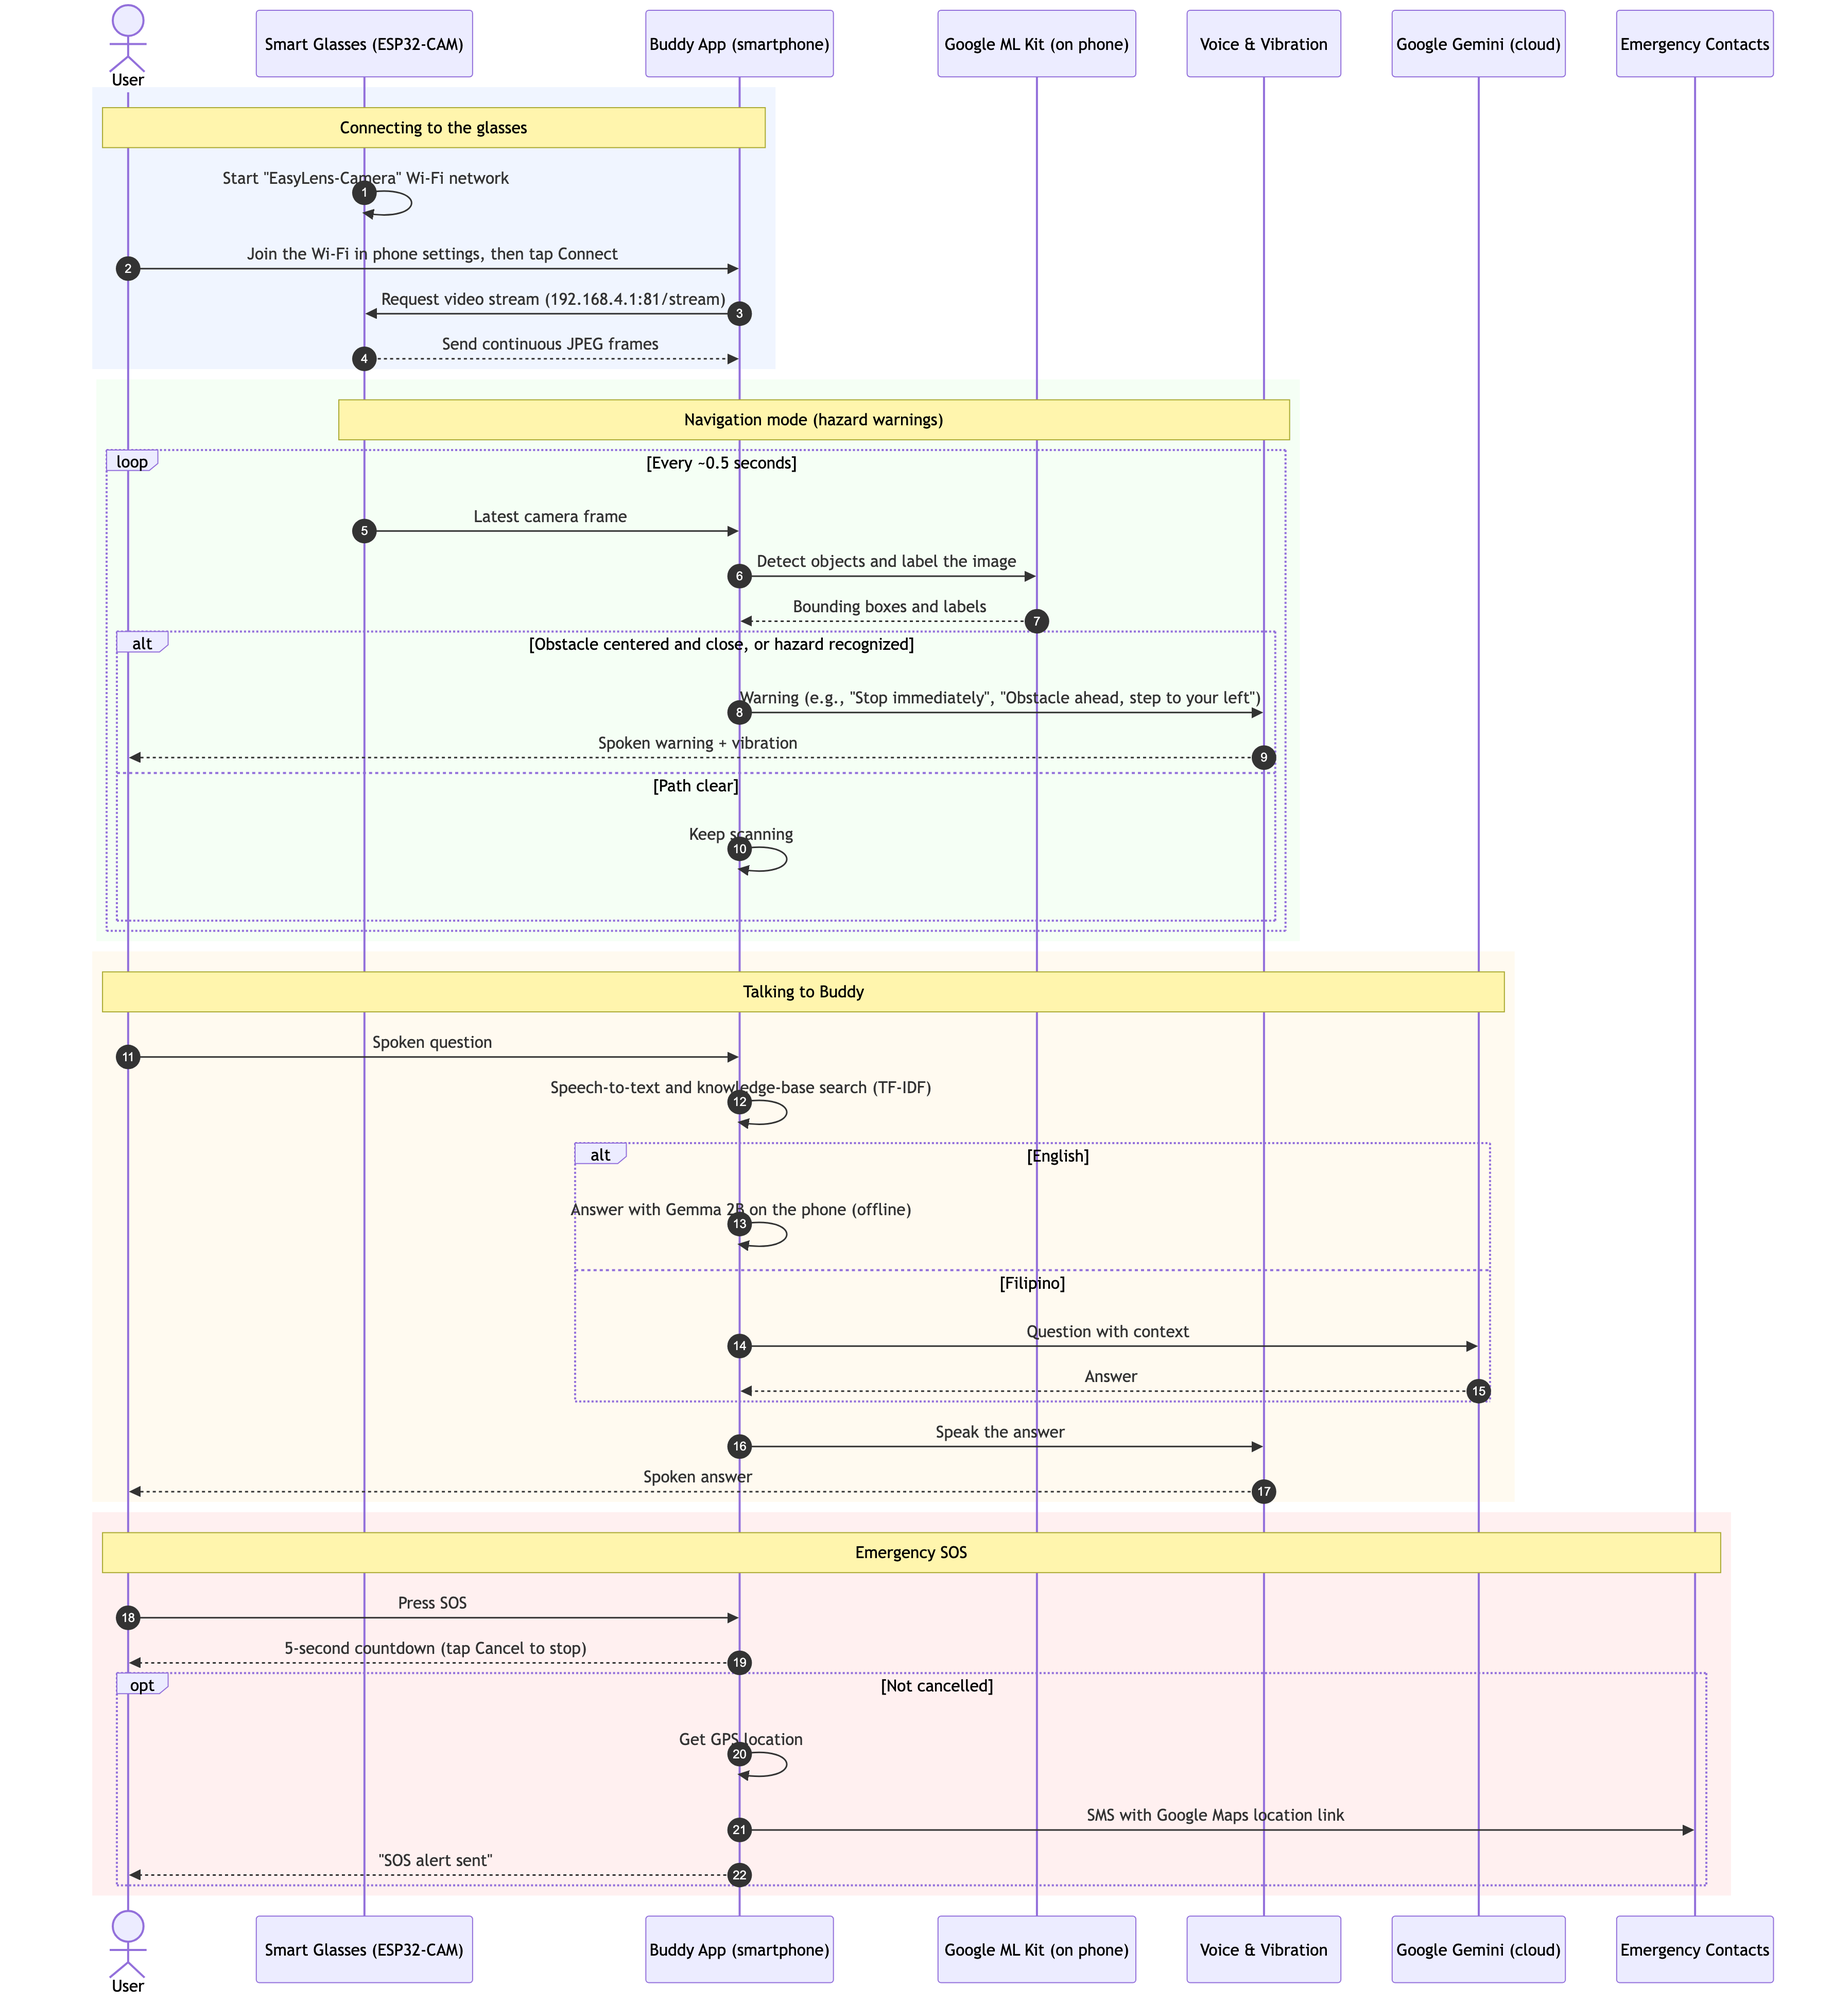
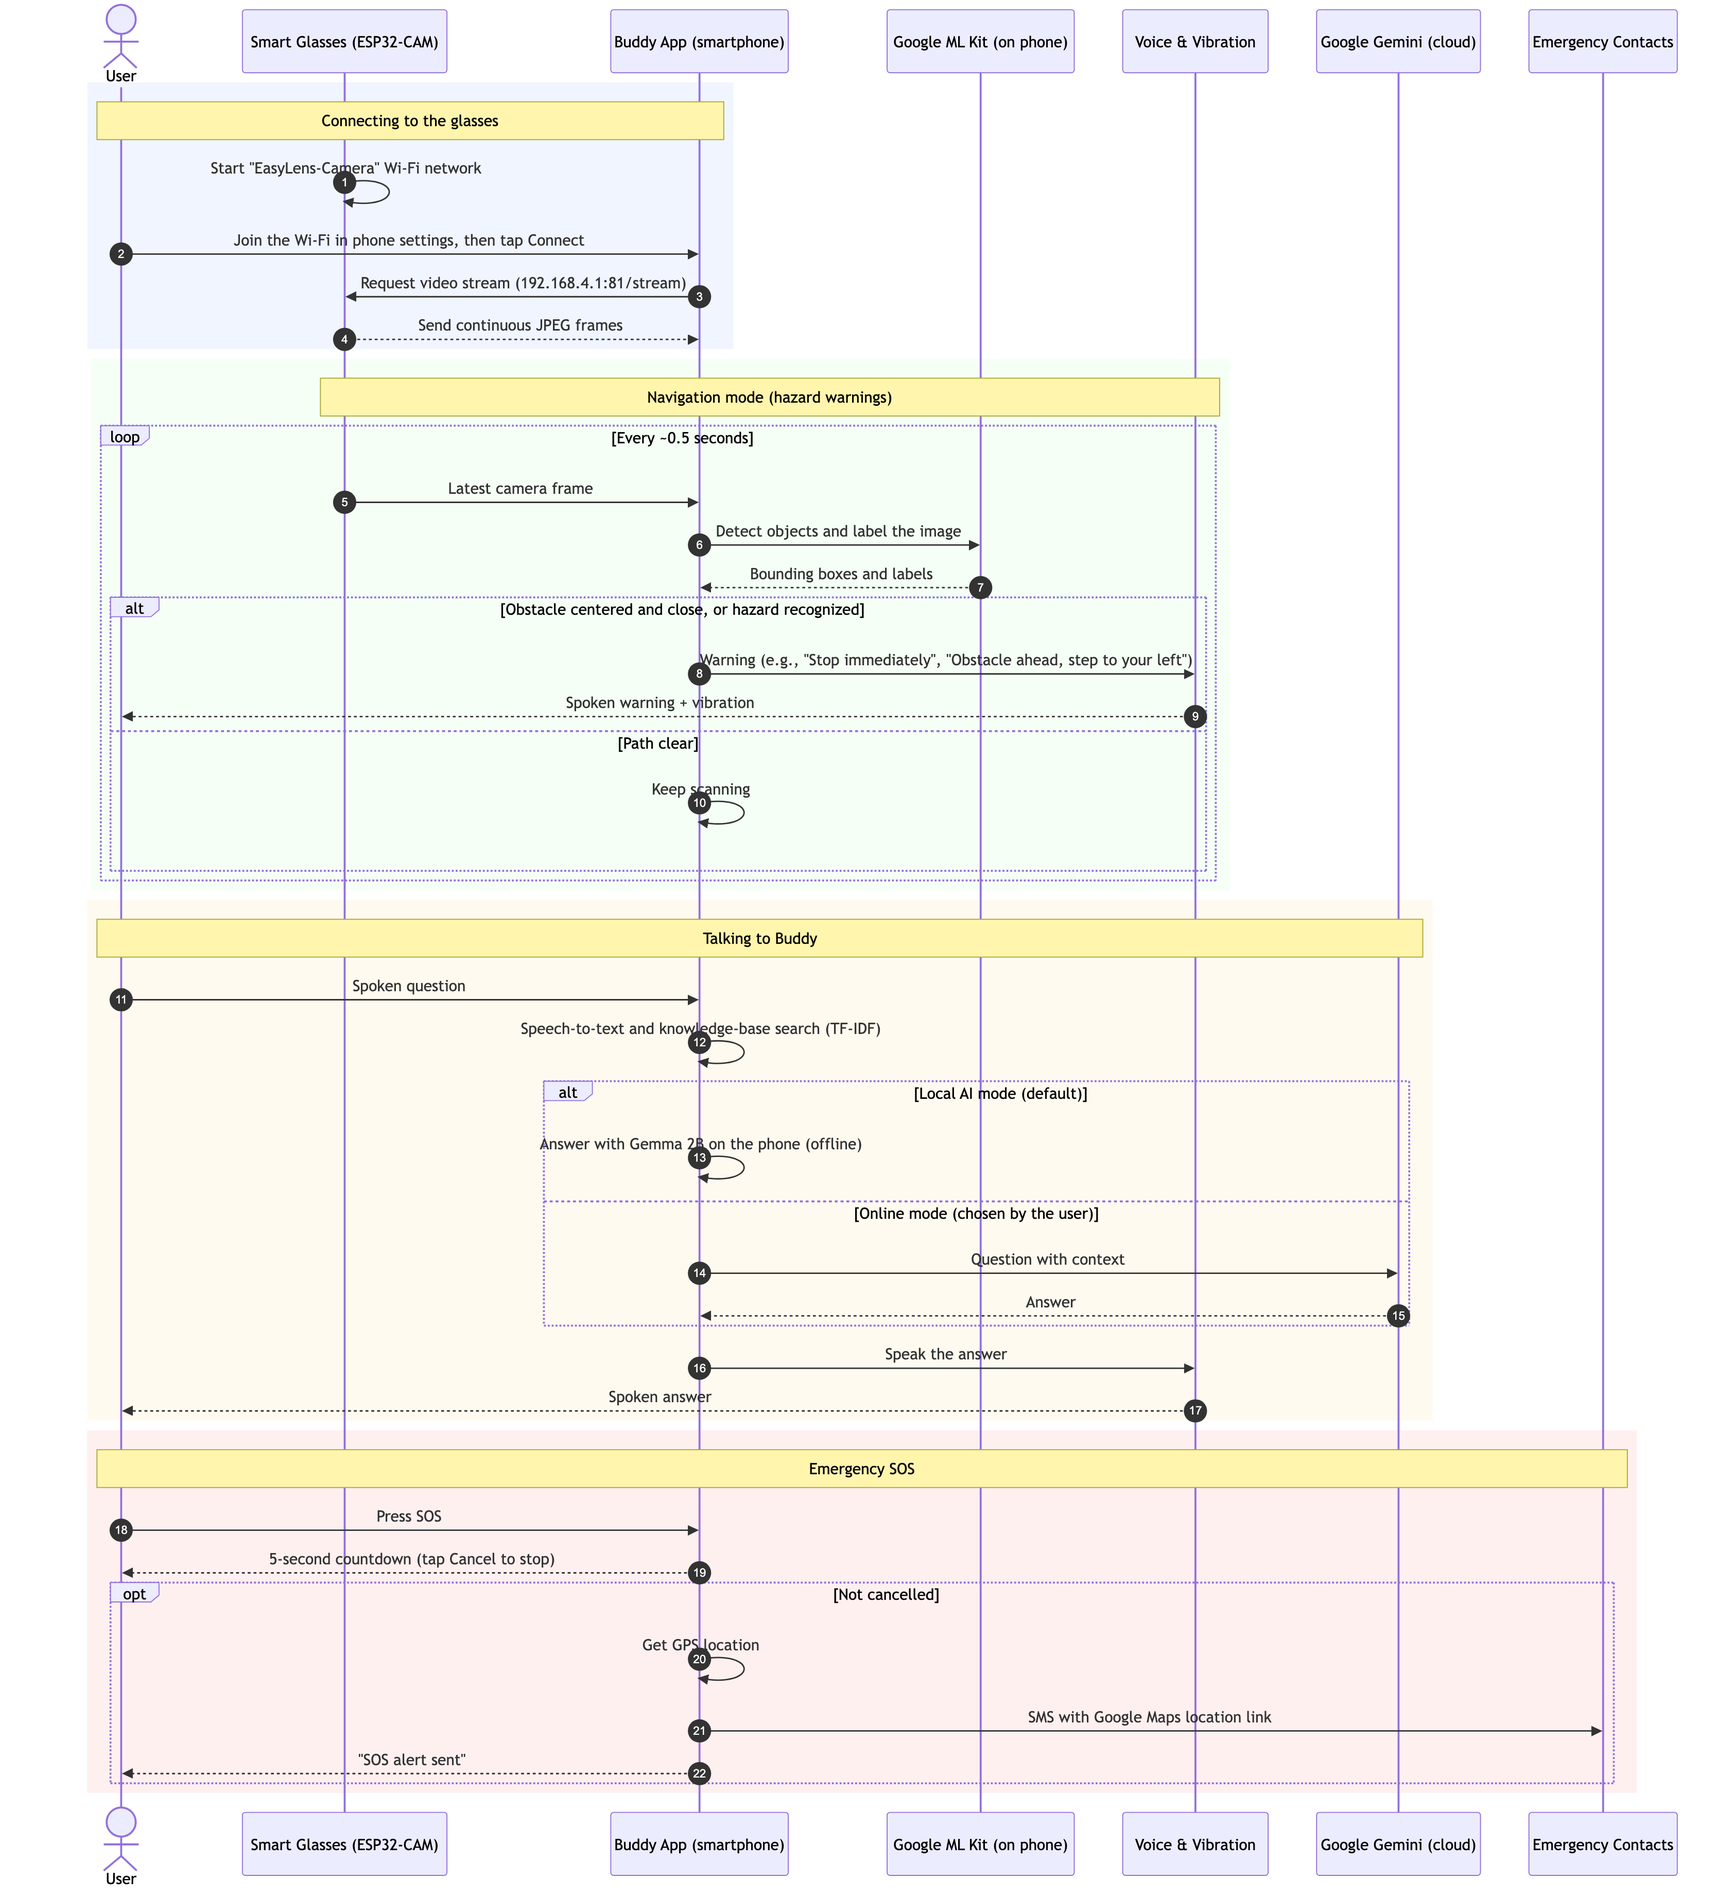
docs(figures): show Buddy's Local AI / online mode choice in 3.6 and 3.7
The Talk to Buddy screens (askBuddyStream) choose Gemma or Gemini from
the user's Local AI setting (default: Local AI), not from the question's
language or the network state. Update the user journey flowchart, the
UML sequence diagram and its note to match.

diff --git a/docs/figures/05_chapter_3_system_architecture_uml.md b/docs/figures/05_chapter_3_system_architecture_uml.md
@@ -15,7 +15,7 @@
 Figure 3.11
 EasyLens System Architecture and Detailed UML Sequence Diagram
 
-Note. Figure 3.11 shows the EasyLens system architecture as a unified modeling language (UML) sequence diagram: connecting the smart glasses over their local Wi-Fi network, the Navigation-mode hazard-warning loop using Google ML Kit on the phone, Buddy's question-and-answer flow (Gemma 2B on the phone for English, Google Gemini online for Filipino), and the Emergency SOS flow.
+Note. Figure 3.11 shows the EasyLens system architecture as a unified modeling language (UML) sequence diagram: connecting the smart glasses over their local Wi-Fi network, the Navigation-mode hazard-warning loop using Google ML Kit on the phone, Buddy's question-and-answer flow (Gemma 2B on the phone in Local AI mode, the default, or Google Gemini online when the user chooses online mode), and the Emergency SOS flow.
 ```
 
 ---
@@ -60,9 +60,9 @@ sequenceDiagram
         note over User, Gemini: Talking to Buddy
         User->>App: Spoken question
         App->>App: Speech-to-text and knowledge-base search (TF-IDF)
-        alt English
+        alt Local AI mode (default)
             App->>App: Answer with Gemma 2B on the phone (offline)
-        else Filipino
+        else Online mode (chosen by the user)
             App->>Gemini: Question with context
             Gemini-->>App: Answer
         end

diff --git a/docs/figures/04_chapter_3_rad_and_user_journey.md b/docs/figures/04_chapter_3_rad_and_user_journey.md
@@ -114,7 +114,7 @@ flowchart TD
     REPEAT(["Repeat for the next frame"])
 
     OCR_OUT["Reads the text aloud<br/>(English / Filipino)"]
-    BUDDY_OUT["Answers by voice:<br/>Gemma 2B on the phone (English)<br/>or Gemini online (Filipino)"]
+    BUDDY_OUT["Answers by voice:<br/>Gemma 2B on the phone (Local AI mode, default)<br/>or Gemini online (online mode, chosen by the user)"]
     NAV_OUT["Speaks turn-by-turn steps and<br/>alerts the user near each turn (GPS)"]
 
     COUNT{"Cancelled within<br/>5 seconds?"}
